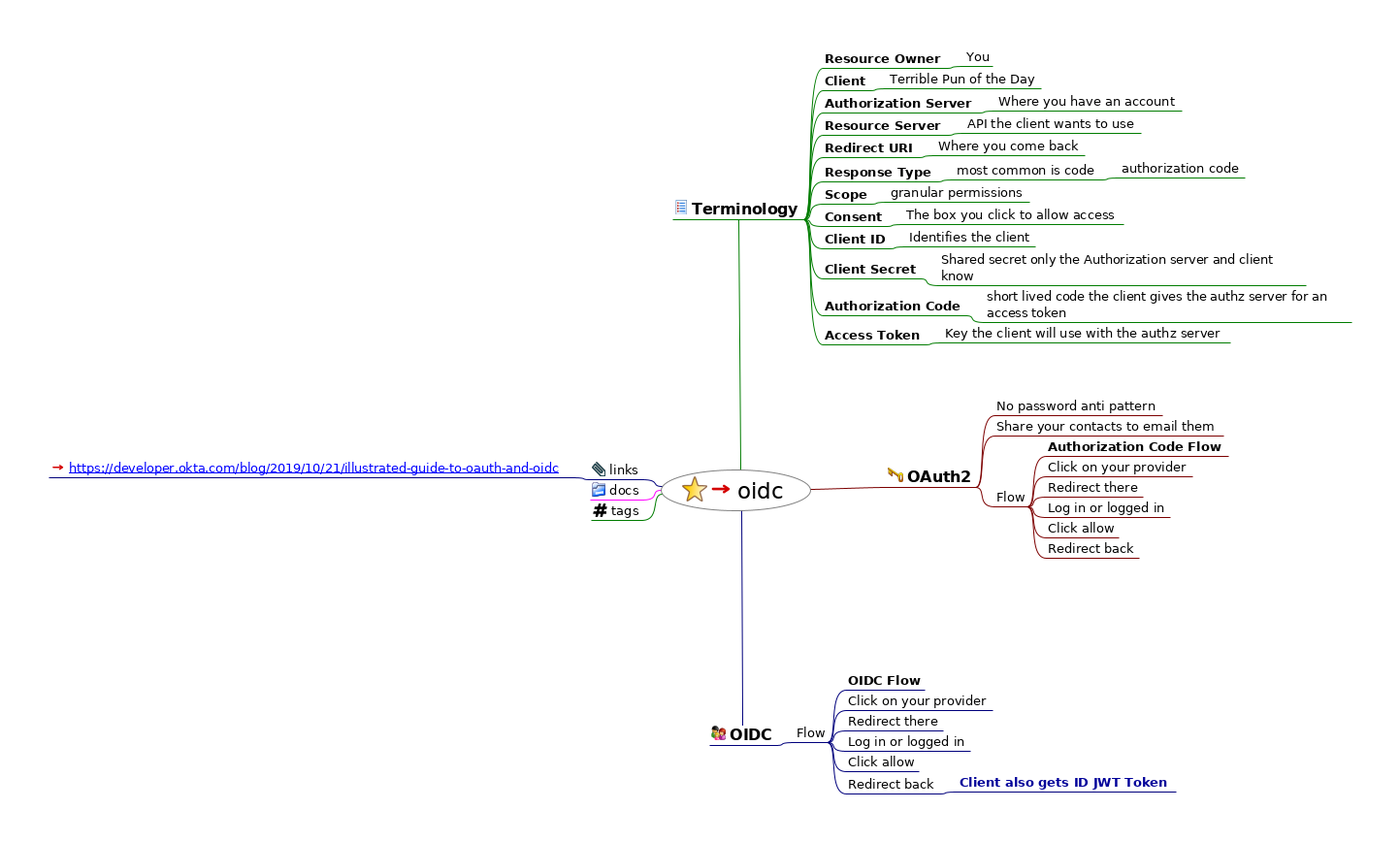
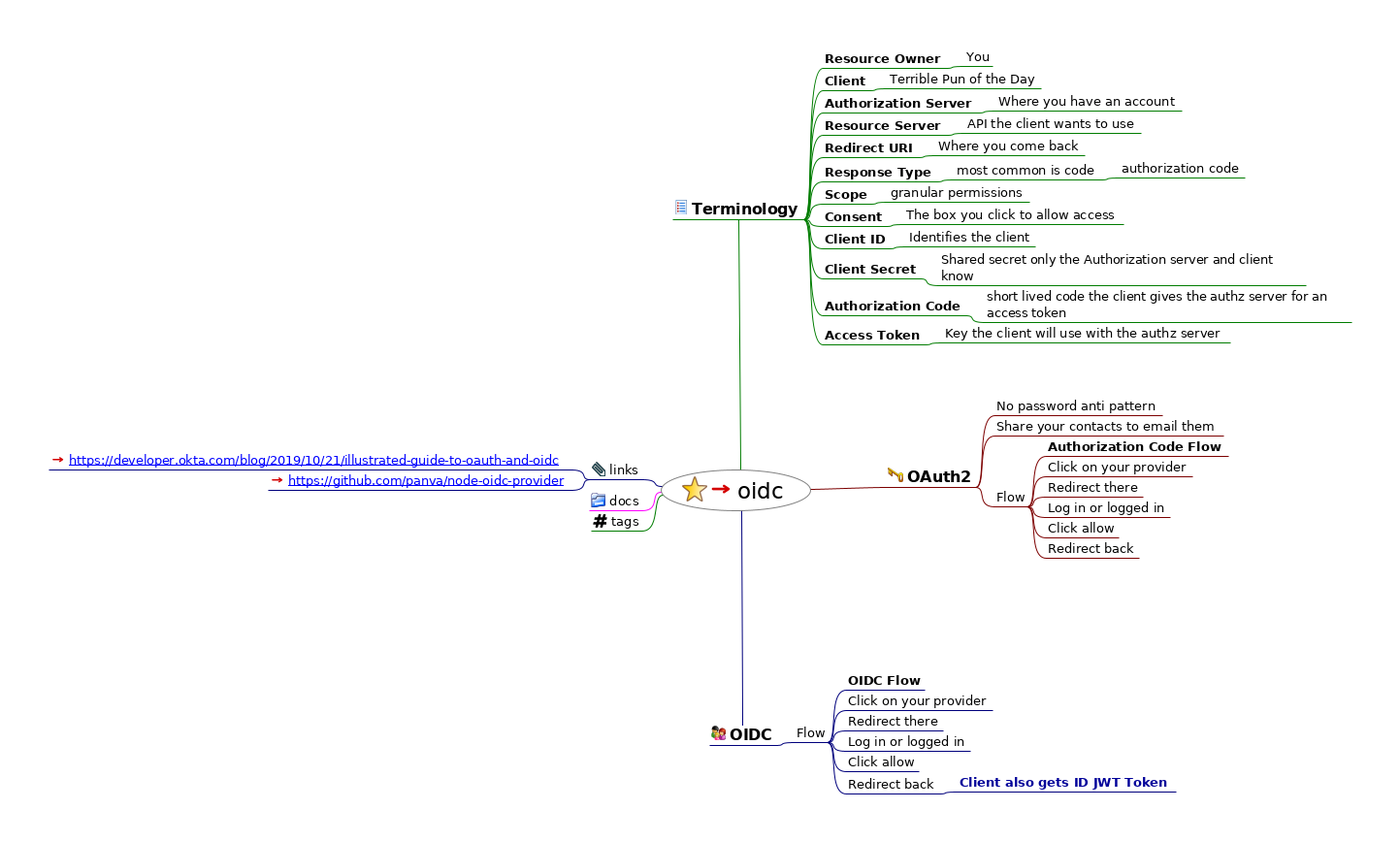
add node oidc

Changed region(s): [[0.0312, 0.5288, 0.4678, 0.6221]]

diff --git a/authorization/oidc.html b/authorization/oidc.html
@@ -1,5 +1,5 @@
 <?xml version="1.0" encoding="UTF-8"?><!DOCTYPE html PUBLIC "-//W3C//DTD XHTML 1.1//EN" "http://www.w3.org/TR/xhtml11/DTD/xhtml11.dtd">
-<html xmlns="http://www.w3.org/1999/xhtml"><meta http-equiv="Content-Type" content="text/html; charset=UTF-8" /><!--This file has been created with processhtml.sh--><head><title>oidc</title><link rel="stylesheet" href="oidc.html_files/freeplane2html.css" type="text/css" /><meta name="generator" content="Freeplane-XSL Stylesheet (see: http://freeplane-xsl.dev.slash-me.net/ for details)" /><script type="text/javascript" src="oidc.html_files/freeplane2html.js"> 
+<html xmlns="http://www.w3.org/1999/xhtml"><meta http-equiv="Content-Type" content="text/html; charset=UTF-8" /><!--This file has been created with freeplane2html.xsl--><head><title>oidc</title><link rel="stylesheet" href="oidc.html_files/freeplane2html.css" type="text/css" /><meta name="generator" content="Freeplane-XSL Stylesheet (see: http://freeplane-xsl.dev.slash-me.net/ for details)" /><script type="text/javascript" src="oidc.html_files/freeplane2html.js"> 
 	</script><script type="text/javascript"><!--
           
                function toggle(id)
@@ -23,7 +23,7 @@
                    };
                };
           
-          --></script></head><body><h1>oidc</h1><div style="width:96%;  padding:2%;  margin-bottom:10px;  border: 0px;  text-align:center;  vertical-align:center;"><img src="oidc.html_files/image.png" style="margin-bottom:10px; &#9;border: 0px; &#9;text-align:center; &#9;vertical-align:center;" alt="Imagemap" usemap="#fm_imagemap" /></div><map name="fm_imagemap" id="fm_imagemap"><area shape="rect" href="index.html" alt="oidc" title="oidc" coords="681,484,836,527" />
+          --></script></head><body><h1>oidc</h1><div style="width:96%;  padding:2%;  margin-bottom:10px;  border: 0px;  text-align:center;  vertical-align:center;"><img src="oidc.html_files/image.png" style="margin-bottom:10px; &#9;border: 0px; &#9;text-align:center; &#9;vertical-align:center;" alt="Imagemap" usemap="#fm_imagemap" /></div><map name="fm_imagemap" id="fm_imagemap"><area shape="rect" href="#FMID_1831615648FM" alt="oidc" title="oidc" coords="681,484,836,527" />
 <area shape="rect" href="#FMID_1572009272FM" alt="Terminology" title="Terminology" coords="693,206,829,226" />
 <area shape="rect" href="#FMID_1289681239FM" alt="Resource Owner" title="Resource Owner" coords="848,52,975,70" />
 <area shape="rect" href="#FMID_607931300FM" alt="You" title="You" coords="994,50,1023,68" />
@@ -51,9 +51,10 @@
 <area shape="rect" href="#FMID_1535983558FM" alt="Access Token" title="Access Token" coords="848,337,953,355" />
 <area shape="rect" href="#FMID_365762092FM" alt="Key the client will use with the authz s ..." title="Key the client will use with the authz s ..." coords="972,335,1268,353" />
 <area shape="rect" href="#FMID_808607355FM" alt="links" title="links" coords="608,476,662,494" />
-<area shape="rect" href="https://developer.okta.com/blog/2019/10/21/illustrated-guide-to-oauth-and-oidc" alt="https://developer.okta.com/blog/2019/10/ ..." title="https://developer.okta.com/blog/2019/10/ ..." coords="50,474,589,492" />
-<area shape="rect" href="#FMID_1100215200FM" alt="docs" title="docs" coords="608,497,662,515" />
-<area shape="rect" href="#FMID_466759422FM" alt="tags" title="tags" coords="609,518,662,536" />
+<area shape="rect" href="#FMID_920528829FM" alt="https://developer.okta.com/blog/2019/10/ ..." title="https://developer.okta.com/blog/2019/10/ ..." coords="50,466,589,484" />
+<area shape="rect" href="#FMID_1474984060FM" alt="https://github.com/panva/node-oidc-provi ..." title="https://github.com/panva/node-oidc-provi ..." coords="276,487,589,505" />
+<area shape="rect" href="#FMID_1100215200FM" alt="docs" title="docs" coords="607,508,662,526" />
+<area shape="rect" href="#FMID_466759422FM" alt="tags" title="tags" coords="609,529,662,547" />
 <area shape="rect" href="#FMID_449520030FM" alt="OAuth2" title="OAuth2" coords="913,482,1006,502" />
 <area shape="rect" href="#FMID_1640917716FM" alt="No password anti pattern" title="No password anti pattern" coords="1025,410,1198,428" />
 <area shape="rect" href="#FMID_1816138588FM" alt="Share your contacts to email them" title="Share your contacts to email them" coords="1025,431,1261,449" />
@@ -75,7 +76,9 @@
 <area shape="rect" href="#FMID_1559358335FM" alt="Client also gets ID JWT Token" title="Client also gets ID JWT Token" coords="987,798,1212,816" />
 </map>
 
-<div class="node"><img src="oidc.html_files/hide.png" class="hideshow" alt="hide" onClick="toggle(&quot;N65543&quot;)" id="imgN65543" /><img src="oidc.html_files/icons/bookmark.svg" alt="bookmark" /> <a id="FMID_1831615648FM" /><div class="nodecontent" style="color:#000000;font-size:150%;"><a href="index.html">oidc</a> <a href="index.html"><img src="oidc.html_files/ilink.png" alt="User Link" style="border-width:0" /></a></div><div class="content" id="N65543"><div class="node"><img src="oidc.html_files/hide.png" class="hideshow" alt="hide" onClick="toggle(&quot;N66445&quot;)" id="imgN66445" /><img src="oidc.html_files/icons/list.svg" alt="list" /> <a id="FMID_1572009272FM" /><div class="nodecontent" style="color:#000000;font-size:100%;font-weight:bold;">Terminology</div><div class="content" id="N66445"><div class="node"><img src="oidc.html_files/hide.png" class="hideshow" alt="hide" onClick="toggle(&quot;N66488&quot;)" id="imgN66488" /><a id="FMID_1289681239FM" /><div class="nodecontent" style="color:#000000;font-size:83%;font-weight:bold;">Resource Owner</div><div class="content" id="N66488"><div class="node"><img src="oidc.html_files/leaf.png" class="hideshow" alt="leaf" /><a id="FMID_607931300FM" /><div class="nodecontent" style="color:#000000;font-size:83%;">You</div></div></div></div><div class="node"><img src="oidc.html_files/hide.png" class="hideshow" alt="hide" onClick="toggle(&quot;N66560&quot;)" id="imgN66560" /><a id="FMID_136917330FM" /><div class="nodecontent" style="color:#000000;font-size:83%;font-weight:bold;">Client</div><div class="content" id="N66560"><div class="node"><img src="oidc.html_files/leaf.png" class="hideshow" alt="leaf" /><a id="FMID_834500855FM" /><div class="nodecontent" style="color:#000000;font-size:83%;">Terrible Pun of the Day</div></div></div></div><div class="node"><img src="oidc.html_files/hide.png" class="hideshow" alt="hide" onClick="toggle(&quot;N66632&quot;)" id="imgN66632" /><a id="FMID_773693740FM" /><div class="nodecontent" style="color:#000000;font-size:83%;font-weight:bold;">Authorization Server</div><div class="content" id="N66632"><div class="node"><img src="oidc.html_files/leaf.png" class="hideshow" alt="leaf" /><a id="FMID_1043956131FM" /><div class="nodecontent" style="color:#000000;font-size:83%;">Where you have an account</div></div></div></div><div class="node"><img src="oidc.html_files/hide.png" class="hideshow" alt="hide" onClick="toggle(&quot;N66704&quot;)" id="imgN66704" /><a id="FMID_583339478FM" /><div class="nodecontent" style="color:#000000;font-size:83%;font-weight:bold;">Resource Server</div><div class="content" id="N66704"><div class="node"><img src="oidc.html_files/leaf.png" class="hideshow" alt="leaf" /><a id="FMID_1032805705FM" /><div class="nodecontent" style="color:#000000;font-size:83%;">API the client wants to use</div></div></div></div><div class="node"><img src="oidc.html_files/hide.png" class="hideshow" alt="hide" onClick="toggle(&quot;N66776&quot;)" id="imgN66776" /><a id="FMID_763149664FM" /><div class="nodecontent" style="color:#000000;font-size:83%;font-weight:bold;">Redirect URI</div><div class="content" id="N66776"><div class="node"><img src="oidc.html_files/leaf.png" class="hideshow" alt="leaf" /><a id="FMID_394097524FM" /><div class="nodecontent" style="color:#000000;font-size:83%;">Where you come back</div></div></div></div><div class="node"><img src="oidc.html_files/hide.png" class="hideshow" alt="hide" onClick="toggle(&quot;N66848&quot;)" id="imgN66848" /><a id="FMID_1034503034FM" /><div class="nodecontent" style="color:#000000;font-size:83%;font-weight:bold;">Response Type</div><div class="content" id="N66848"><div class="node"><img src="oidc.html_files/hide.png" class="hideshow" alt="hide" onClick="toggle(&quot;N66883&quot;)" id="imgN66883" /><a id="FMID_1328666592FM" /><div class="nodecontent" style="color:#000000;font-size:83%;">most common is code</div><div class="content" id="N66883"><div class="node"><img src="oidc.html_files/leaf.png" class="hideshow" alt="leaf" /><a id="FMID_1375330228FM" /><div class="nodecontent" style="color:#000000;font-size:83%;">authorization code</div></div></div></div></div></div><div class="node"><img src="oidc.html_files/hide.png" class="hideshow" alt="hide" onClick="toggle(&quot;N66956&quot;)" id="imgN66956" /><a id="FMID_1605955820FM" /><div class="nodecontent" style="color:#000000;font-size:83%;font-weight:bold;">Scope</div><div class="content" id="N66956"><div class="node"><img src="oidc.html_files/leaf.png" class="hideshow" alt="leaf" /><a id="FMID_15002016FM" /><div class="nodecontent" style="color:#000000;font-size:83%;">granular permissions</div></div></div></div><div class="node"><img src="oidc.html_files/hide.png" class="hideshow" alt="hide" onClick="toggle(&quot;N67028&quot;)" id="imgN67028" /><a id="FMID_245246260FM" /><div class="nodecontent" style="color:#000000;font-size:83%;font-weight:bold;">Consent</div><div class="content" id="N67028"><div class="node"><img src="oidc.html_files/leaf.png" class="hideshow" alt="leaf" /><a id="FMID_852451378FM" /><div class="nodecontent" style="color:#000000;font-size:83%;">The box you click to allow access</div></div></div></div><div class="node"><img src="oidc.html_files/hide.png" class="hideshow" alt="hide" onClick="toggle(&quot;N67100&quot;)" id="imgN67100" /><a id="FMID_1454557639FM" /><div class="nodecontent" style="color:#000000;font-size:83%;font-weight:bold;">Client ID</div><div class="content" id="N67100"><div class="node"><img src="oidc.html_files/leaf.png" class="hideshow" alt="leaf" /><a id="FMID_339107514FM" /><div class="nodecontent" style="color:#000000;font-size:83%;">Identifies the client</div></div></div></div><div class="node"><img src="oidc.html_files/hide.png" class="hideshow" alt="hide" onClick="toggle(&quot;N67172&quot;)" id="imgN67172" /><a id="FMID_1921522318FM" /><div class="nodecontent" style="color:#000000;font-size:83%;font-weight:bold;">Client Secret</div><div class="content" id="N67172"><div class="node"><img src="oidc.html_files/leaf.png" class="hideshow" alt="leaf" /><a id="FMID_574833304FM" /><div class="nodecontent" style="color:#000000;font-size:83%;">Shared secret only the Authorization server and client know</div></div></div></div><div class="node"><img src="oidc.html_files/hide.png" class="hideshow" alt="hide" onClick="toggle(&quot;N67244&quot;)" id="imgN67244" /><a id="FMID_113405435FM" /><div class="nodecontent" style="color:#000000;font-size:83%;font-weight:bold;">Authorization Code</div><div class="content" id="N67244"><div class="node"><img src="oidc.html_files/leaf.png" class="hideshow" alt="leaf" /><a id="FMID_1842269980FM" /><div class="nodecontent" style="color:#000000;font-size:83%;">short lived code the client gives the authz server for an access token</div></div></div></div><div class="node"><img src="oidc.html_files/hide.png" class="hideshow" alt="hide" onClick="toggle(&quot;N67316&quot;)" id="imgN67316" /><a id="FMID_1535983558FM" /><div class="nodecontent" style="color:#000000;font-size:83%;font-weight:bold;">Access Token</div><div class="content" id="N67316"><div class="node"><img src="oidc.html_files/leaf.png" class="hideshow" alt="leaf" /><a id="FMID_365762092FM" /><div class="nodecontent" style="color:#000000;font-size:83%;">Key the client will use with the authz server</div></div></div></div></div></div><div class="node"><img src="oidc.html_files/hide.png" class="hideshow" alt="hide" onClick="toggle(&quot;N67389&quot;)" id="imgN67389" /><img src="oidc.html_files/icons/attach.svg" alt="attach" /> <a id="FMID_808607355FM" /><div class="nodecontent" style="color:#000000;font-size:83%;">links</div><div class="content" id="N67389"><div class="node"><img src="oidc.html_files/leaf.png" class="hideshow" alt="leaf" /><a id="FMID_920528829FM" /><div class="nodecontent" style="color:#000000;font-size:83%;"><a href="https://developer.okta.com/blog/2019/10/21/illustrated-guide-to-oauth-and-oidc">
-    <a http-equiv="content-type" content="text/html; charset=utf-8" href="https://developer.okta.com/blog/2019/10/21/illustrated-guide-to-oauth-and-oidc">https://developer.okta.com/blog/2019/10/21/illustrated-guide-to-oauth-and-oidc</a> 
-  </a> <a href="https://developer.okta.com/blog/2019/10/21/illustrated-guide-to-oauth-and-oidc"><img src="oidc.html_files/ilink.png" alt="User Link" style="border-width:0" /></a></div></div></div></div><div class="node"><img src="oidc.html_files/leaf.png" class="hideshow" alt="leaf" /><img src="oidc.html_files/icons/folder.svg" alt="folder" /> <a id="FMID_1100215200FM" /><div class="nodecontent" style="color:#000000;font-size:83%;">docs</div></div><div class="node"><img src="oidc.html_files/leaf.png" class="hideshow" alt="leaf" /><img src="oidc.html_files/icons/hashtag.png" alt="hashtag" /> <a id="FMID_466759422FM" /><div class="nodecontent" style="color:#000000;font-size:83%;">tags</div></div><div class="node"><img src="oidc.html_files/hide.png" class="hideshow" alt="hide" onClick="toggle(&quot;N67570&quot;)" id="imgN67570" /><img src="oidc.html_files/icons/password.svg" alt="password" /> <a id="FMID_449520030FM" /><div class="nodecontent" style="color:#000000;font-size:100%;font-weight:bold;">OAuth2</div><div class="content" id="N67570"><div class="node"><img src="oidc.html_files/leaf.png" class="hideshow" alt="leaf" /><a id="FMID_1640917716FM" /><div class="nodecontent" style="color:#000000;font-size:83%;">No password anti pattern</div></div><div class="node"><img src="oidc.html_files/leaf.png" class="hideshow" alt="leaf" /><a id="FMID_1816138588FM" /><div class="nodecontent" style="color:#000000;font-size:83%;">Share your contacts to email them</div></div><div class="node"><img src="oidc.html_files/hide.png" class="hideshow" alt="hide" onClick="toggle(&quot;N67685&quot;)" id="imgN67685" /><a id="FMID_551008889FM" /><div class="nodecontent" style="color:#000000;font-size:83%;">Flow</div><div class="content" id="N67685"><div class="node"><img src="oidc.html_files/leaf.png" class="hideshow" alt="leaf" /><a id="FMID_900753286FM" /><div class="nodecontent" style="color:#000000;font-size:83%;font-weight:bold;">Authorization Code Flow</div></div><div class="node"><img src="oidc.html_files/leaf.png" class="hideshow" alt="leaf" /><a id="FMID_1044247150FM" /><div class="nodecontent" style="color:#000000;font-size:83%;">Click on your provider</div></div><div class="node"><img src="oidc.html_files/leaf.png" class="hideshow" alt="leaf" /><a id="FMID_1278643681FM" /><div class="nodecontent" style="color:#000000;font-size:83%;">Redirect there</div></div><div class="node"><img src="oidc.html_files/leaf.png" class="hideshow" alt="leaf" /><a id="FMID_1500974585FM" /><div class="nodecontent" style="color:#000000;font-size:83%;">Log in or logged in</div></div><div class="node"><img src="oidc.html_files/leaf.png" class="hideshow" alt="leaf" /><a id="FMID_708254690FM" /><div class="nodecontent" style="color:#000000;font-size:83%;">Click allow</div></div><div class="node"><img src="oidc.html_files/leaf.png" class="hideshow" alt="leaf" /><a id="FMID_488426351FM" /><div class="nodecontent" style="color:#000000;font-size:83%;">Redirect back</div></div></div></div></div></div><div class="node"><img src="oidc.html_files/hide.png" class="hideshow" alt="hide" onClick="toggle(&quot;N67938&quot;)" id="imgN67938" /><img src="oidc.html_files/icons/family.svg" alt="family" /> <a id="FMID_1972852853FM" /><div class="nodecontent" style="color:#000000;font-size:100%;font-weight:bold;">OIDC</div><div class="content" id="N67938"><div class="node"><img src="oidc.html_files/hide.png" class="hideshow" alt="hide" onClick="toggle(&quot;N67981&quot;)" id="imgN67981" /><a id="FMID_597814031FM" /><div class="nodecontent" style="color:#000000;font-size:83%;">Flow</div><div class="content" id="N67981"><div class="node"><img src="oidc.html_files/leaf.png" class="hideshow" alt="leaf" /><a id="FMID_1826138535FM" /><div class="nodecontent" style="color:#000000;font-size:83%;font-weight:bold;">OIDC Flow</div></div><div class="node"><img src="oidc.html_files/leaf.png" class="hideshow" alt="leaf" /><a id="FMID_109328470FM" /><div class="nodecontent" style="color:#000000;font-size:83%;">Click on your provider</div></div><div class="node"><img src="oidc.html_files/leaf.png" class="hideshow" alt="leaf" /><a id="FMID_750838198FM" /><div class="nodecontent" style="color:#000000;font-size:83%;">Redirect there</div></div><div class="node"><img src="oidc.html_files/leaf.png" class="hideshow" alt="leaf" /><a id="FMID_1285644072FM" /><div class="nodecontent" style="color:#000000;font-size:83%;">Log in or logged in</div></div><div class="node"><img src="oidc.html_files/leaf.png" class="hideshow" alt="leaf" /><a id="FMID_1177252922FM" /><div class="nodecontent" style="color:#000000;font-size:83%;">Click allow</div></div><div class="node"><img src="oidc.html_files/hide.png" class="hideshow" alt="hide" onClick="toggle(&quot;N68196&quot;)" id="imgN68196" /><a id="FMID_271945391FM" /><div class="nodecontent" style="color:#000000;font-size:83%;">Redirect back</div><div class="content" id="N68196"><div class="node"><img src="oidc.html_files/leaf.png" class="hideshow" alt="leaf" /><a id="FMID_1559358335FM" /><div class="nodecontent" style="color:#000099;font-size:83%;font-weight:bold;">Client also gets ID JWT Token</div></div></div></div></div></div></div></div></div></div>
+<div class="node"><img src="oidc.html_files/hide.png" class="hideshow" alt="hide" onClick="toggle(&quot;N65543&quot;)" id="imgN65543" /><img src="oidc.html_files/icons/bookmark.png" alt="bookmark" /> <a id="FMID_1831615648FM" /><div class="nodecontent" style="color:#000000;font-size:150%;"><a href="index.mm">oidc</a> <a href="index.mm"><img src="oidc.html_files/ilink.png" alt="User Link" style="border-width:0" /></a></div><div class="content" id="N65543"><div class="node"><img src="oidc.html_files/hide.png" class="hideshow" alt="hide" onClick="toggle(&quot;N66445&quot;)" id="imgN66445" /><img src="oidc.html_files/icons/list.png" alt="list" /> <a id="FMID_1572009272FM" /><div class="nodecontent" style="color:#000000;font-size:100%;font-weight:bold;">Terminology</div><div class="content" id="N66445"><div class="node"><img src="oidc.html_files/hide.png" class="hideshow" alt="hide" onClick="toggle(&quot;N66488&quot;)" id="imgN66488" /><a id="FMID_1289681239FM" /><div class="nodecontent" style="color:#000000;font-size:83%;font-weight:bold;">Resource Owner</div><div class="content" id="N66488"><div class="node"><img src="oidc.html_files/leaf.png" class="hideshow" alt="leaf" /><a id="FMID_607931300FM" /><div class="nodecontent" style="color:#000000;font-size:83%;">You</div></div></div></div><div class="node"><img src="oidc.html_files/hide.png" class="hideshow" alt="hide" onClick="toggle(&quot;N66560&quot;)" id="imgN66560" /><a id="FMID_136917330FM" /><div class="nodecontent" style="color:#000000;font-size:83%;font-weight:bold;">Client</div><div class="content" id="N66560"><div class="node"><img src="oidc.html_files/leaf.png" class="hideshow" alt="leaf" /><a id="FMID_834500855FM" /><div class="nodecontent" style="color:#000000;font-size:83%;">Terrible Pun of the Day</div></div></div></div><div class="node"><img src="oidc.html_files/hide.png" class="hideshow" alt="hide" onClick="toggle(&quot;N66632&quot;)" id="imgN66632" /><a id="FMID_773693740FM" /><div class="nodecontent" style="color:#000000;font-size:83%;font-weight:bold;">Authorization Server</div><div class="content" id="N66632"><div class="node"><img src="oidc.html_files/leaf.png" class="hideshow" alt="leaf" /><a id="FMID_1043956131FM" /><div class="nodecontent" style="color:#000000;font-size:83%;">Where you have an account</div></div></div></div><div class="node"><img src="oidc.html_files/hide.png" class="hideshow" alt="hide" onClick="toggle(&quot;N66704&quot;)" id="imgN66704" /><a id="FMID_583339478FM" /><div class="nodecontent" style="color:#000000;font-size:83%;font-weight:bold;">Resource Server</div><div class="content" id="N66704"><div class="node"><img src="oidc.html_files/leaf.png" class="hideshow" alt="leaf" /><a id="FMID_1032805705FM" /><div class="nodecontent" style="color:#000000;font-size:83%;">API the client wants to use</div></div></div></div><div class="node"><img src="oidc.html_files/hide.png" class="hideshow" alt="hide" onClick="toggle(&quot;N66776&quot;)" id="imgN66776" /><a id="FMID_763149664FM" /><div class="nodecontent" style="color:#000000;font-size:83%;font-weight:bold;">Redirect URI</div><div class="content" id="N66776"><div class="node"><img src="oidc.html_files/leaf.png" class="hideshow" alt="leaf" /><a id="FMID_394097524FM" /><div class="nodecontent" style="color:#000000;font-size:83%;">Where you come back</div></div></div></div><div class="node"><img src="oidc.html_files/hide.png" class="hideshow" alt="hide" onClick="toggle(&quot;N66848&quot;)" id="imgN66848" /><a id="FMID_1034503034FM" /><div class="nodecontent" style="color:#000000;font-size:83%;font-weight:bold;">Response Type</div><div class="content" id="N66848"><div class="node"><img src="oidc.html_files/hide.png" class="hideshow" alt="hide" onClick="toggle(&quot;N66883&quot;)" id="imgN66883" /><a id="FMID_1328666592FM" /><div class="nodecontent" style="color:#000000;font-size:83%;">most common is code</div><div class="content" id="N66883"><div class="node"><img src="oidc.html_files/leaf.png" class="hideshow" alt="leaf" /><a id="FMID_1375330228FM" /><div class="nodecontent" style="color:#000000;font-size:83%;">authorization code</div></div></div></div></div></div><div class="node"><img src="oidc.html_files/hide.png" class="hideshow" alt="hide" onClick="toggle(&quot;N66956&quot;)" id="imgN66956" /><a id="FMID_1605955820FM" /><div class="nodecontent" style="color:#000000;font-size:83%;font-weight:bold;">Scope</div><div class="content" id="N66956"><div class="node"><img src="oidc.html_files/leaf.png" class="hideshow" alt="leaf" /><a id="FMID_15002016FM" /><div class="nodecontent" style="color:#000000;font-size:83%;">granular permissions</div></div></div></div><div class="node"><img src="oidc.html_files/hide.png" class="hideshow" alt="hide" onClick="toggle(&quot;N67028&quot;)" id="imgN67028" /><a id="FMID_245246260FM" /><div class="nodecontent" style="color:#000000;font-size:83%;font-weight:bold;">Consent</div><div class="content" id="N67028"><div class="node"><img src="oidc.html_files/leaf.png" class="hideshow" alt="leaf" /><a id="FMID_852451378FM" /><div class="nodecontent" style="color:#000000;font-size:83%;">The box you click to allow access</div></div></div></div><div class="node"><img src="oidc.html_files/hide.png" class="hideshow" alt="hide" onClick="toggle(&quot;N67100&quot;)" id="imgN67100" /><a id="FMID_1454557639FM" /><div class="nodecontent" style="color:#000000;font-size:83%;font-weight:bold;">Client ID</div><div class="content" id="N67100"><div class="node"><img src="oidc.html_files/leaf.png" class="hideshow" alt="leaf" /><a id="FMID_339107514FM" /><div class="nodecontent" style="color:#000000;font-size:83%;">Identifies the client</div></div></div></div><div class="node"><img src="oidc.html_files/hide.png" class="hideshow" alt="hide" onClick="toggle(&quot;N67172&quot;)" id="imgN67172" /><a id="FMID_1921522318FM" /><div class="nodecontent" style="color:#000000;font-size:83%;font-weight:bold;">Client Secret</div><div class="content" id="N67172"><div class="node"><img src="oidc.html_files/leaf.png" class="hideshow" alt="leaf" /><a id="FMID_574833304FM" /><div class="nodecontent" style="color:#000000;font-size:83%;">Shared secret only the Authorization server and client know</div></div></div></div><div class="node"><img src="oidc.html_files/hide.png" class="hideshow" alt="hide" onClick="toggle(&quot;N67244&quot;)" id="imgN67244" /><a id="FMID_113405435FM" /><div class="nodecontent" style="color:#000000;font-size:83%;font-weight:bold;">Authorization Code</div><div class="content" id="N67244"><div class="node"><img src="oidc.html_files/leaf.png" class="hideshow" alt="leaf" /><a id="FMID_1842269980FM" /><div class="nodecontent" style="color:#000000;font-size:83%;">short lived code the client gives the authz server for an access token</div></div></div></div><div class="node"><img src="oidc.html_files/hide.png" class="hideshow" alt="hide" onClick="toggle(&quot;N67316&quot;)" id="imgN67316" /><a id="FMID_1535983558FM" /><div class="nodecontent" style="color:#000000;font-size:83%;font-weight:bold;">Access Token</div><div class="content" id="N67316"><div class="node"><img src="oidc.html_files/leaf.png" class="hideshow" alt="leaf" /><a id="FMID_365762092FM" /><div class="nodecontent" style="color:#000000;font-size:83%;">Key the client will use with the authz server</div></div></div></div></div></div><div class="node"><img src="oidc.html_files/hide.png" class="hideshow" alt="hide" onClick="toggle(&quot;N67389&quot;)" id="imgN67389" /><img src="oidc.html_files/icons/attach.png" alt="attach" /> <a id="FMID_808607355FM" /><div class="nodecontent" style="color:#000000;font-size:83%;">links</div><div class="content" id="N67389"><div class="node"><img src="oidc.html_files/leaf.png" class="hideshow" alt="leaf" /><a id="FMID_920528829FM" /><div class="nodecontent" style="color:#000000;font-size:83%;"><a href="https://developer.okta.com/blog/2019/10/21/illustrated-guide-to-oauth-and-oidc">
+    <a http-equiv="content-type" content="text/html; charset=utf-8" href="https://developer.okta.com/blog/2019/10/21/illustrated-guide-to-oauth-and-oidc">https://developer.okta.com/blog/2019/10/21/illustrated-guide-to-oauth-and-oidc</a>
+  </a> <a href="https://developer.okta.com/blog/2019/10/21/illustrated-guide-to-oauth-and-oidc"><img src="oidc.html_files/ilink.png" alt="User Link" style="border-width:0" /></a></div></div><div class="node"><img src="oidc.html_files/leaf.png" class="hideshow" alt="leaf" /><a id="FMID_1474984060FM" /><div class="nodecontent" style="color:#000000;font-size:83%;"><a href="https://github.com/panva/node-oidc-provider">
+    <a http-equiv="content-type" content="text/html; charset=utf-8" href="https://github.com/panva/node-oidc-provider">https://github.com/panva/node-oidc-provider</a>
+  </a> <a href="https://github.com/panva/node-oidc-provider"><img src="oidc.html_files/ilink.png" alt="User Link" style="border-width:0" /></a></div></div></div></div><div class="node"><img src="oidc.html_files/leaf.png" class="hideshow" alt="leaf" /><img src="oidc.html_files/icons/folder.png" alt="folder" /> <a id="FMID_1100215200FM" /><div class="nodecontent" style="color:#000000;font-size:83%;">docs</div></div><div class="node"><img src="oidc.html_files/leaf.png" class="hideshow" alt="leaf" /><img src="oidc.html_files/icons/hashtag.png" alt="hashtag" /> <a id="FMID_466759422FM" /><div class="nodecontent" style="color:#000000;font-size:83%;">tags</div></div><div class="node"><img src="oidc.html_files/hide.png" class="hideshow" alt="hide" onClick="toggle(&quot;N67625&quot;)" id="imgN67625" /><img src="oidc.html_files/icons/password.png" alt="password" /> <a id="FMID_449520030FM" /><div class="nodecontent" style="color:#000000;font-size:100%;font-weight:bold;">OAuth2</div><div class="content" id="N67625"><div class="node"><img src="oidc.html_files/leaf.png" class="hideshow" alt="leaf" /><a id="FMID_1640917716FM" /><div class="nodecontent" style="color:#000000;font-size:83%;">No password anti pattern</div></div><div class="node"><img src="oidc.html_files/leaf.png" class="hideshow" alt="leaf" /><a id="FMID_1816138588FM" /><div class="nodecontent" style="color:#000000;font-size:83%;">Share your contacts to email them</div></div><div class="node"><img src="oidc.html_files/hide.png" class="hideshow" alt="hide" onClick="toggle(&quot;N67740&quot;)" id="imgN67740" /><a id="FMID_551008889FM" /><div class="nodecontent" style="color:#000000;font-size:83%;">Flow</div><div class="content" id="N67740"><div class="node"><img src="oidc.html_files/leaf.png" class="hideshow" alt="leaf" /><a id="FMID_900753286FM" /><div class="nodecontent" style="color:#000000;font-size:83%;font-weight:bold;">Authorization Code Flow</div></div><div class="node"><img src="oidc.html_files/leaf.png" class="hideshow" alt="leaf" /><a id="FMID_1044247150FM" /><div class="nodecontent" style="color:#000000;font-size:83%;">Click on your provider</div></div><div class="node"><img src="oidc.html_files/leaf.png" class="hideshow" alt="leaf" /><a id="FMID_1278643681FM" /><div class="nodecontent" style="color:#000000;font-size:83%;">Redirect there</div></div><div class="node"><img src="oidc.html_files/leaf.png" class="hideshow" alt="leaf" /><a id="FMID_1500974585FM" /><div class="nodecontent" style="color:#000000;font-size:83%;">Log in or logged in</div></div><div class="node"><img src="oidc.html_files/leaf.png" class="hideshow" alt="leaf" /><a id="FMID_708254690FM" /><div class="nodecontent" style="color:#000000;font-size:83%;">Click allow</div></div><div class="node"><img src="oidc.html_files/leaf.png" class="hideshow" alt="leaf" /><a id="FMID_488426351FM" /><div class="nodecontent" style="color:#000000;font-size:83%;">Redirect back</div></div></div></div></div></div><div class="node"><img src="oidc.html_files/hide.png" class="hideshow" alt="hide" onClick="toggle(&quot;N67993&quot;)" id="imgN67993" /><img src="oidc.html_files/icons/family.png" alt="family" /> <a id="FMID_1972852853FM" /><div class="nodecontent" style="color:#000000;font-size:100%;font-weight:bold;">OIDC</div><div class="content" id="N67993"><div class="node"><img src="oidc.html_files/hide.png" class="hideshow" alt="hide" onClick="toggle(&quot;N68036&quot;)" id="imgN68036" /><a id="FMID_597814031FM" /><div class="nodecontent" style="color:#000000;font-size:83%;">Flow</div><div class="content" id="N68036"><div class="node"><img src="oidc.html_files/leaf.png" class="hideshow" alt="leaf" /><a id="FMID_1826138535FM" /><div class="nodecontent" style="color:#000000;font-size:83%;font-weight:bold;">OIDC Flow</div></div><div class="node"><img src="oidc.html_files/leaf.png" class="hideshow" alt="leaf" /><a id="FMID_109328470FM" /><div class="nodecontent" style="color:#000000;font-size:83%;">Click on your provider</div></div><div class="node"><img src="oidc.html_files/leaf.png" class="hideshow" alt="leaf" /><a id="FMID_750838198FM" /><div class="nodecontent" style="color:#000000;font-size:83%;">Redirect there</div></div><div class="node"><img src="oidc.html_files/leaf.png" class="hideshow" alt="leaf" /><a id="FMID_1285644072FM" /><div class="nodecontent" style="color:#000000;font-size:83%;">Log in or logged in</div></div><div class="node"><img src="oidc.html_files/leaf.png" class="hideshow" alt="leaf" /><a id="FMID_1177252922FM" /><div class="nodecontent" style="color:#000000;font-size:83%;">Click allow</div></div><div class="node"><img src="oidc.html_files/hide.png" class="hideshow" alt="hide" onClick="toggle(&quot;N68251&quot;)" id="imgN68251" /><a id="FMID_271945391FM" /><div class="nodecontent" style="color:#000000;font-size:83%;">Redirect back</div><div class="content" id="N68251"><div class="node"><img src="oidc.html_files/leaf.png" class="hideshow" alt="leaf" /><a id="FMID_1559358335FM" /><div class="nodecontent" style="color:#000099;font-size:83%;font-weight:bold;">Client also gets ID JWT Token</div></div></div></div></div></div></div></div></div></div>
 </body></html>

diff --git a/authorization/oidc.mm b/authorization/oidc.mm
@@ -133,7 +133,18 @@
     <a http-equiv="content-type" content="text/html; charset=utf-8" href="https://developer.okta.com/blog/2019/10/21/illustrated-guide-to-oauth-and-oidc">https://developer.okta.com/blog/2019/10/21/illustrated-guide-to-oauth-and-oidc</a> 
   </body>
 </html>
+</richcontent>
+</node>
+<node ID="ID_1474984060" CREATED="1575213499024" MODIFIED="1575213499024" LINK="https://github.com/panva/node-oidc-provider"><richcontent TYPE="NODE">
 
+<html>
+  <head>
+    
+  </head>
+  <body>
+    <a http-equiv="content-type" content="text/html; charset=utf-8" href="https://github.com/panva/node-oidc-provider">https://github.com/panva/node-oidc-provider</a> 
+  </body>
+</html>
 </richcontent>
 </node>
 </node>
